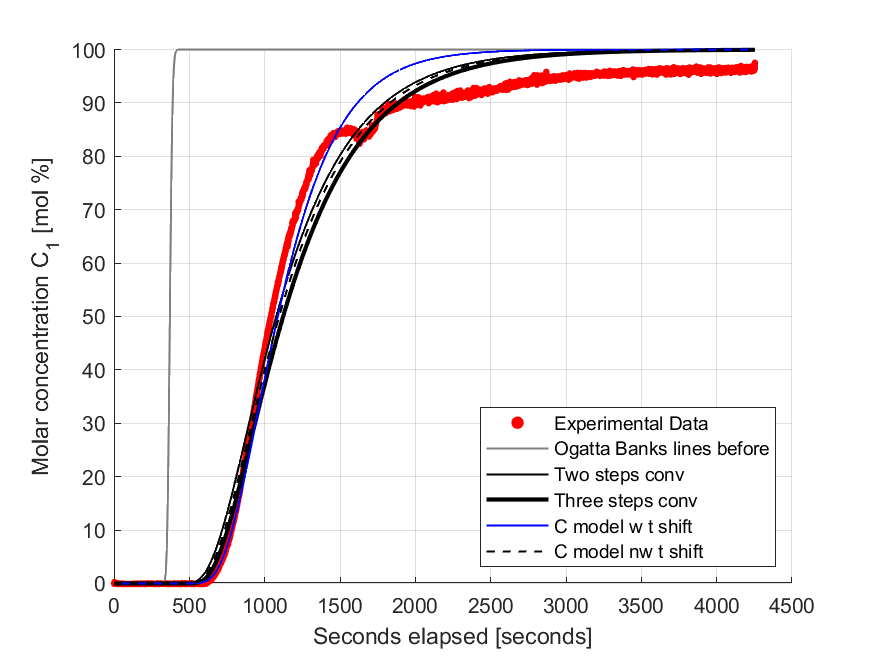
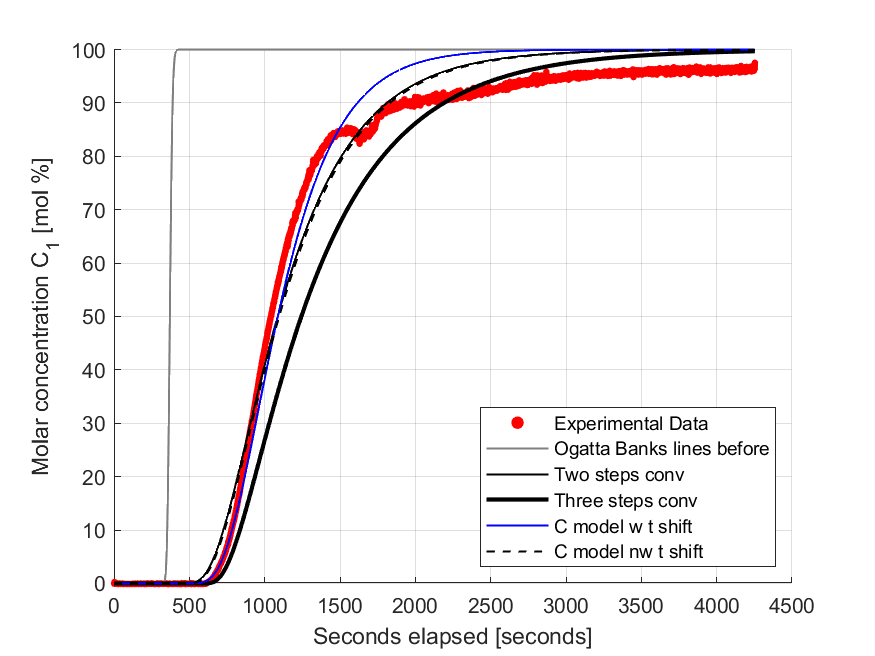
mixing lines and more check that tshift corresponds to upstream only

Changed region(s): [[0.216, 0.061, 0.864, 0.9146]]

diff --git a/main_LinesMixing.m b/main_LinesMixing.m
@@ -35,7 +35,29 @@ filedataExp = import_inputExp(filenameExp); % import input to a local variable
 
 load(pathImportAll+"expProcFullData.mat")
 
-%%
+%% mean residence time
+
+for i = 1:length(filedataExp.Key)
+    exp_params = expProcFullData.(filedataExp.Key(i)).exp_params;
+    
+    t_vals_aux = expProcFullData.(filedataExp.Key(i)).BT.SecondsElapsed;
+    C1_vals_aux = expProcFullData.(filedataExp.Key(i)).BT.Ci/100;
+
+    %resampling to have constant dt
+    idx = isfinite(t_vals_aux) & isfinite(C1_vals_aux);
+    t = t_vals_aux(idx);
+    C = C1_vals_aux(idx);
+    
+    [t, k] = sort(t);
+    C = C(k);
+    
+    t_mean_meas = trapz(t, 1 - C);   % [s]
+
+end
+
+
+
+%% mixing models
 
 for i = 1:length(filedataExp.Key)
     exp_params = expProcFullData.(filedataExp.Key(i)).exp_params;
@@ -88,6 +110,14 @@ for i = 1:length(filedataExp.Key)
 
     C1_eval = model(Dc_fit,t_vals);
 
+    E = [0; diff(C1_eval)] / dt;   % numerical derivative
+    E(E < 0) = 0;               % clip tiny negatives from noise
+
+    % Normalize to unit area
+    area_E = trapz(t_vals, E);
+    E = E / area_E;
+    t_mean_model = trapz(t_vals, t_vals .* E); 
+
     model2 = @(Dc,t) three_segment_model(t, Dc, ...
     exp_params.q_SI, A_before, ...
     exp_params.A_SI, exp_params.phi, A_after, ...
@@ -116,6 +146,53 @@ for i = 1:length(filedataExp.Key)
 
     C1_ob_linesafter = ob_step(t_vals,L_line_after,exp_params.v_lines_SI,exp_params.KL_lines_SI,1);
     expProcFullData.(filedataExp.Key(i)).BT_fit.C1_ob_linesafter = C1_ob_linesafter*100;
+
+    % variances
+    % Upstream RTD
+    G_up = impulse_from_step(t_vals, L_line_before, v_lines_before, KL_lines_before);
+    G_up(G_up < 0) = 0;
+    G_up = G_up / trapz(t_vals, G_up);
+    
+    % Core RTD
+    G_core = impulse_from_step(t_vals, exp_params.L_SI, exp_params.u_SI, Dc_fit);
+    G_core(G_core < 0) = 0;
+    G_core = G_core / trapz(t_vals, G_core);
+    
+    % Downstream RTD
+    G_down = impulse_from_step(t_vals, L_line_after, v_lines_after, KL_lines_after);
+    G_down(G_down < 0) = 0;
+    G_down = G_down / trapz(t_vals, G_down);
+
+    % Means
+    mu_up   = trapz(t_vals, t_vals .* G_up);
+    mu_core = trapz(t_vals, t_vals .* G_core);
+    mu_down = trapz(t_vals, t_vals .* G_down);
+    
+    % Variances
+    sigma2_up   = trapz(t_vals, (t_vals - mu_up  ).^2 .* G_up);
+    sigma2_core = trapz(t_vals, (t_vals - mu_core).^2 .* G_core);
+    sigma2_down = trapz(t_vals, (t_vals - mu_down).^2 .* G_down);
+    
+    % Total variance (by convolution theory)
+    sigma2_tot = sigma2_up + sigma2_core + sigma2_down;
+    
+    frac_up   = sigma2_up   / sigma2_tot * 100;
+    frac_core = sigma2_core / sigma2_tot * 100;
+    frac_down = sigma2_down / sigma2_tot * 100;
+    
+    fprintf('Variance contributions:\n');
+    fprintf('  Upstream:   %.1f %%\n', frac_up);
+    fprintf('  Core:       %.1f %%\n', frac_core);
+    fprintf('  Downstream: %.1f %%\n', frac_down);
+    
+    figure 
+    plot(t_vals, G_up,'DisplayName','Gup')
+    hold on
+    plot(t_vals, G_core,'DisplayName','Gcore')
+    plot(t_vals, G_down,'DisplayName','Gdown')
+    legend()
+    
+
 end
 
 %%